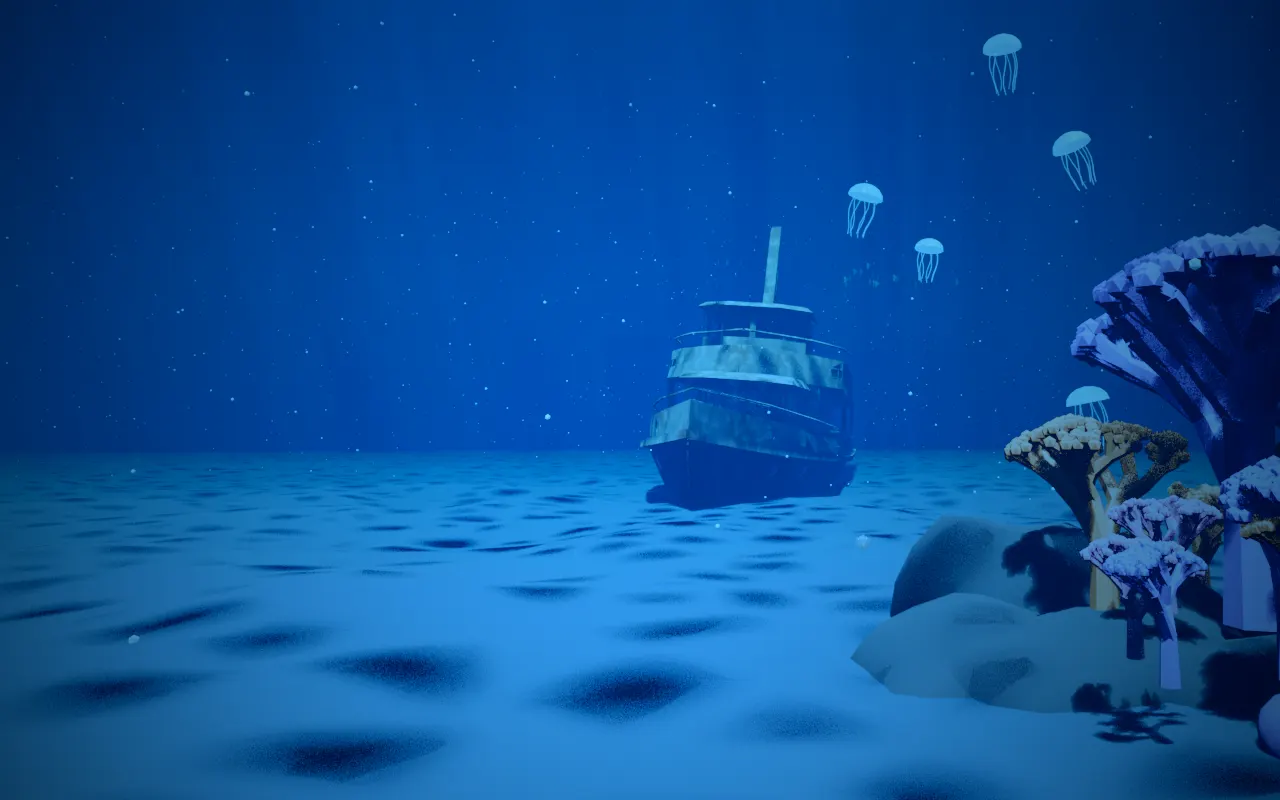
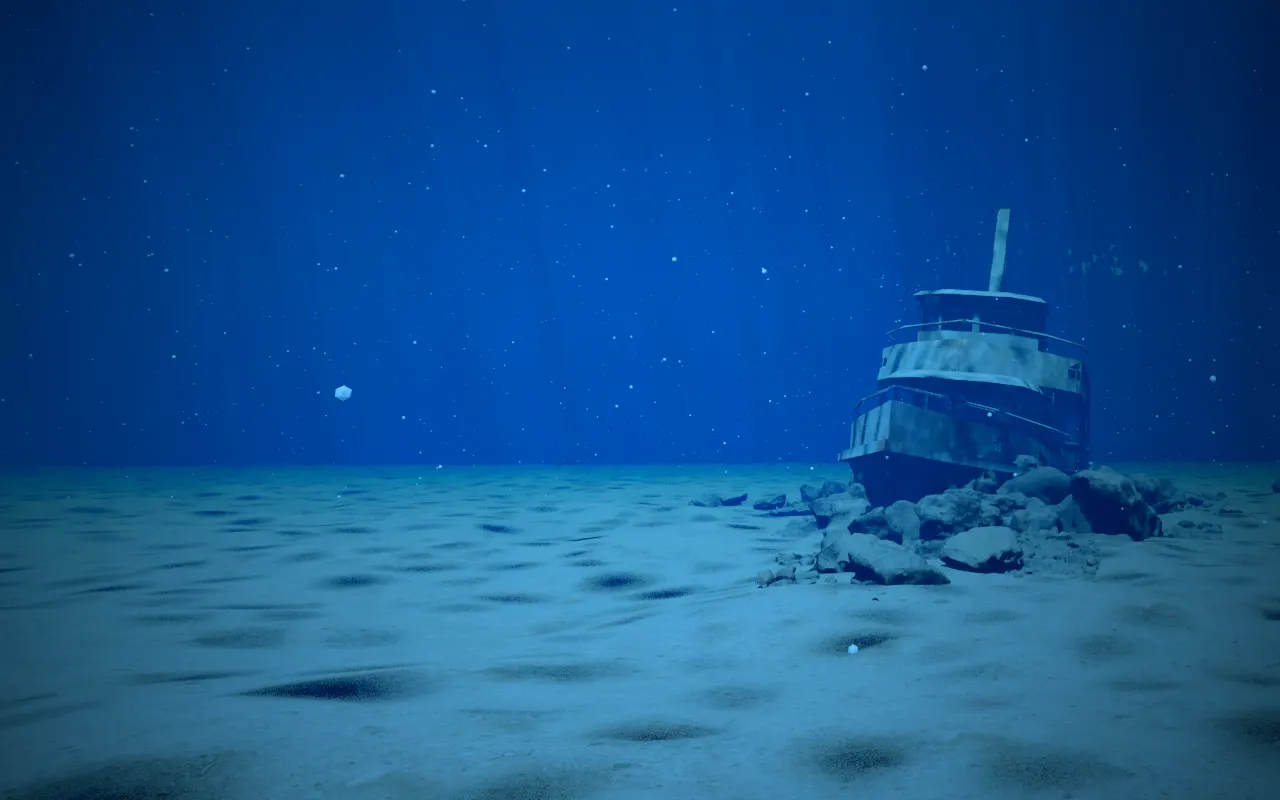
Hero: realistic wreck, scroll turns the ship, tighter crop, no webcam; full-height uncropped photo in #why

diff --git a/frontend/javascript/hero-orbit.js b/frontend/javascript/hero-orbit.js
@@ -1,6 +1,6 @@
-// Home hero: 17 renders of the wreck from an 80° arc around it. The cursor
-// (or, after "Look around", your head in the webcam) picks the angle; the two
-// nearest renders are cross-faded. Without JS the plain <img> stays.
+// Home hero: renders of the wreck from an arc around it. The cursor picks the
+// angle and scrolling through the hero turns it further; the two nearest renders
+// are cross-faded. Without JS the plain <img> stays.
 const canvas = document.querySelector(".home-hero-orbit")
 const reduce = window.matchMedia("(prefers-reduced-motion: reduce)").matches
 
@@ -13,10 +13,10 @@ function startOrbit() {
   const ctx = canvas.getContext("2d")
   const frames = Array.from({ length: n }, (_, i) => {
     const img = new Image()
-    img.src = `${canvas.dataset.path}${String(i + first).padStart(2, "0")}.webp`
+    img.src = `${canvas.dataset.path}${String(i + first).padStart(2, "0")}.webp?v=${canvas.dataset.version || 1}`
     return img
   })
-  let mouse = 0, pos = 0, head = null, t0 = performance.now()
+  let mouse = 0, pos = 0, t0 = performance.now()
 
   const resize = () => {
     const dpr = Math.min(window.devicePixelRatio || 1, 2)
@@ -33,19 +33,21 @@ function startOrbit() {
   const draw = (img, alpha) => {
     if (!img.complete || !img.naturalWidth) return false
     const cw = canvas.width, ch = canvas.height
-    const s = Math.max(cw / img.naturalWidth, ch / img.naturalHeight)
+    // zoom in a little and anchor to the top: less seabed and rocks, more water
+    const s = Math.max(cw / img.naturalWidth, ch / img.naturalHeight) * 1.15
     const w = img.naturalWidth * s, h = img.naturalHeight * s
-    const fx = cw < ch ? 0.72 : 0.5          // narrow screens: keep the wreck (right side) in view
+    const fx = cw < ch ? 0.72 : 0.6          // keep the wreck (right side) in view
     ctx.globalAlpha = alpha
-    ctx.drawImage(img, (cw - w) * fx, (ch - h) / 2, w, h)
+    ctx.drawImage(img, (cw - w) * fx, (ch - h) * 0.1, w, h)
     return true
   }
 
   const frame = (t) => {
-    // a face seen in the last half second wins; otherwise the mouse; touch screens sway
-    let target = mouse
-    if (head && t - head.seen < 500) target = head.x
-    else if (!matchMedia("(hover: hover)").matches) target = Math.sin((t - t0) / 3000) * 0.8
+    // mouse on desktop, a slow sway on touch screens; scrolling past the hero adds a turn
+    const hover = matchMedia("(hover: hover)").matches
+    const scroll = Math.min(1, window.scrollY / canvas.clientHeight)
+    let target = (hover ? mouse : Math.sin((t - t0) / 3000) * 0.3) + scroll * 1.6
+    target = Math.max(-1, Math.min(1, target))
     pos += (target - pos) * 0.08
     const f = pos < 0 ? mid + pos * mid : mid + pos * (n - 1 - mid)
     const a = Math.max(0, Math.min(n - 1, Math.floor(f))), b = Math.min(n - 1, a + 1)
@@ -56,49 +58,6 @@ function startOrbit() {
     requestAnimationFrame(frame)
   }
   requestAnimationFrame(frame)
-  return (h) => (head = h)
 }
 
-// Head tracking: opt-in, the browser asks for the camera; video never leaves the page.
-async function trackHead(setHead, button) {
-  button.disabled = true
-  button.textContent = "Starting camera…"
-  try {
-    const vision = await import("https://cdn.jsdelivr.net/npm/@mediapipe/tasks-vision@0.10.14/vision_bundle.mjs")
-    const fileset = await vision.FilesetResolver.forVisionTasks("https://cdn.jsdelivr.net/npm/@mediapipe/tasks-vision@0.10.14/wasm")
-    const detector = await vision.FaceDetector.createFromOptions(fileset, {
-      baseOptions: { modelAssetPath: "https://storage.googleapis.com/mediapipe-models/face_detector/blaze_face_short_range/float16/1/blaze_face_short_range.tflite" },
-      runningMode: "VIDEO",
-    })
-    const video = document.createElement("video")
-    video.playsInline = true
-    video.muted = true
-    video.srcObject = await navigator.mediaDevices.getUserMedia({ video: { width: 320, height: 240, facingMode: "user" } })
-    await video.play()
-    const head = { x: 0, seen: 0 }
-    setHead(head)
-    button.textContent = "Move your head"
-    const loop = () => {
-      const r = detector.detectForVideo(video, performance.now())
-      const box = r.detections[0]?.boundingBox
-      if (box) {
-        const cx = (box.originX + box.width / 2) / video.videoWidth   // 0..1, camera view
-        head.x = Math.max(-1, Math.min(1, (0.5 - cx) * 3.2))          // mirrored, amplified
-        head.seen = performance.now()
-      }
-      requestAnimationFrame(loop)
-    }
-    loop()
-  } catch {
-    button.textContent = "Camera unavailable"
-  }
-}
-
-if (canvas && !reduce) {
-  const setHead = startOrbit()
-  const button = document.querySelector(".home-hero-look")
-  if (button && navigator.mediaDevices?.getUserMedia) {
-    button.hidden = false
-    button.addEventListener("click", () => trackHead(setHead, button), { once: true })
-  }
-}
+if (canvas && !reduce) startOrbit()

diff --git a/frontend/styles/index.css b/frontend/styles/index.css
@@ -216,26 +216,19 @@ footer {
 
 .home-hero-orbit { opacity: 0; transition: opacity 600ms ease; }
 .home-hero-orbit.is-live { opacity: 1; }
-.home-hero-look {
-  display: block;
-  margin-top: 1.25rem;
-  padding: 0;
-  border: 0;
-  background: none;
-  color: rgb(226 232 240 / 0.85);
-  font-size: 0.95rem;
-  text-decoration: underline;
-  text-underline-offset: 0.25em;
-  cursor: pointer;
-}
-.home-hero-look[hidden] { display: none; }
-.home-hero-look:disabled { cursor: default; text-decoration: none; }
 .home-hero-credit a { color: inherit; }
 
+.home-why-photo { display: block; width: 100%; height: auto; }
 @media (min-width: 1024px) {
-  .home-why-inner { grid-template-columns: minmax(0, 1fr) minmax(0, 26rem); }
+  .home-why-inner > div { max-width: 52%; }
+  .home-why-photo {
+    position: absolute;
+    top: 0;
+    right: 0;
+    width: auto;
+    height: 100%;
+  }
 }
-.home-why-photo { aspect-ratio: 4 / 5; }
 
 .home-hero-place {
   position: absolute;

diff --git a/AGENTS.md b/AGENTS.md
@@ -14,7 +14,7 @@ Bridgetown static site for nofins freediving (Phuket, Thailand) — read this be
 
 **Структура по образцу theunderwatertherapist.com** (Коля, 15.10.2026: «i want the similar just drawn from my writings», «the whole site»). Главная: hero → `#head` «It is all in your head.» (четыре карточки 2×2 «проблема читателя → обещание → ссылка»: две для новичков, две для ныряющих — Коля выбрал «Mix») → `#why` → `#start` «Try freediving.» (Adults → инстаграм, Kids → `/junior/`; без номеров и без трипов — они в `#trips`) → `#trips` → `#about` → `#where` → `#join`. `/why/`: три канонические пары → эссе `.essay` с липким оглавлением справа (`.essay-toc`, от 1024px); пункт раздела, который читаешь, подсвечивается (`aria-current`, скрипт в `frontend/javascript/index.js` — раздел активен, когда его верх прошёл 30% экрана). Между текстом и оглавлением висит белый трос («line is white, marks - black») (`.dive-line`, от 1024px; Коля 15.10.2026: «фоном нарисуешь трос а внизу candy cane и стоппер и дальше он уходит до конца страницы», «отметки напротив глав»): метка на тросе напротив каждого h2 — чёрный отрезок ровно в ширину троса, не шире («depth marks are ON the line, they can't be wider») (ставит тот же скрипт; Коля 15.10.2026: «the marks should be just black squares on the line»), внизу эссе candy cane — белый трос с чёрными штрихами, как на схеме дайв-лайна, и под ним стоппер — просто жёлто-лаймовый круг `#d9f53b` («stopper just yellow-lime circle») (Коля 15.10.2026: «candycane just like dashed line»). Candy cane и стоппер висят ниже последней главы, на продолжении троса к футеру: «no marks on candycane»; трос идёт сквозь футер до самого низа страницы (`--tail` считает скрипт), поэтому футер прижат влево и не пересекается с тросом («so the rope goes all the way») и вверх от эссе до верха страницы, под текстом (`--head`; «make the rope go thru the top»). Останавливается под меню: на 1456px трос резал пункт «Why freediving». Верх троса растворяется в воде на первых 14rem (`mask-image`; «fade the top of the rope»). Левая колонка шапки и блоки Deeper/Kids — `max-w-[42rem]`, как эссе, чтобы текст не упирался в трос («join these to the left»), трос уходит ниже эссе к футеру → «Deeper means calmer.» / «One-to-one for kids.» → кнопка (Коля 15.10.2026: «make sure the page tells the story» — практические блоки после истории, вывод «On land.» ведёт к ним; раньше стояли между крючком и историей и рвали её). Эссе — одно погружение от поверхности до поверхности (Коля 15.10.2026: «свяжи всё логически, что это как бы стадии фридайвинга»): Unplug. → The urge to breathe. → The voice in your head. → Letting go. → The wall. → Free fall. → The same in life. (порядок и последний заголовок — его; «same in life, а не on land»; последняя глава — навыки воды переходят в жизнь, «начинаешь быть свободным внутри себя, внутри жизни»). Каждая глава открывается строкой-стадией из его постов: поверхность и «суфлёр ума» (2025-Q2), минута и CO₂ (2024-Q4), стены «в глубине и в задержке» (2026-Q1 «Стена»), «отпустив всё, начинаешь всплывать» (2025-Q2). Мишу из сцены у бассейна Коля снял 15.10.2026 («убери мишу») и «certain death» («не надо про death») — не возвращать. «Лучший дайв — когда не думаешь», «вымывает ненужное / что впустить обратно» и negative buoyancy живут на `/about/` — сюда не тащить. Якоря: `#twelve`, `#breath`, `#thoughts`, `#letting-go`, `#wall`, `#water`, `#life`; каждая строка — пересказ постов think→forward 2023-12-04…2026-09-08 (`Telegram/Thinkforward/`). Ревью `/impeccable` 15.10.2026: «Then I was gone.» читался как блэкаут, «Only the water.» — непонятно; раздел зовётся «Free fall.» (Коля 15.10.2026: заголовки «не понятны» — «Thoughts that are not yours.» → «The voice in your head.», «On land.» → «And on land?» (его вариант); «Fear speaks in your voice.» и «Where the fear ended.» он отклонил; «The urge to breathe.», «Letting go.», «The wall.» оставить); «seventy-five metres» без «pool» новичок читает как глубину. Карточки не цитируют эссе, а называют проблему и обещание. Кикеры «01 / RECOGNITION» с образца не взяты. Первый раздел — «Unplug.» (Коля 15.10.2026 выбрал из вариантов вместо «First contact.», его же «3 minutes to first touch or something»; заголовки «The voice in your head.» и «Free fall.» он подтвердил; строка Коли дословно: «Once I understood that you need to unplug in your head, I held my breath for over four minutes.» (было 4:15, точную цифру не ставить)); калька «My calm went down to twelve metres» / «Mine went down to twelve metres» (его «мой уровень пофигизма 12 метров») снята, Коля 15.10.2026: «прекрати писать» — не возвращать.
 
-**Hero главной — облёт затонувшего корабля** (29.10.2026). Слова Коли по ходу: «вид со дна», «голый металл без отделки», «не надо ломать корпус», «убери всю мелочь с бортов, типа перил», «глубже в землю» (закопан на треть борта), «всё синей и насыщенней», «посмотри как у них» (образец @rut4a в Threads: рифы по краям, медузы, корабль вдали), «левый край слишком сильно поворачивает». Сцена — `Projects/blender/media/meditation-wreck.blend` (MV Meditation с Рача Яй на модели Yacht II, CC BY — подпись `.home-hero-credit` не снимать). 23 рендера по дуге −15°…+40° через 2,5° (`scene["orbit"]["angles"]`), нос к зрителю — кадр `f06`; цветокоррекция в синеву ставится при экспорте: `Projects/blender/scripts/export-orbit.sh` → `src/images/home/orbit/f00–f22.webp` (~1 МБ). `frontend/javascript/hero-orbit.js`: курсор по X выбирает угол (`data-center` — кадр в центре экрана, слева от него меньше кадров, чем справа), соседние кадры смешиваются; тач-экраны качаются сами; кнопка «Look around with your head» включает веб-камеру (MediaPipe FaceDetector с jsDelivr, видео не уходит со страницы), пока лица нет в кадре — управляет мышь. Без JS — `hero-wreck.webp` (= `f06`). Первая версия с картой глубины снята: поворот на пару градусов («шевелится только чутьчуть»). Подпись «Koh Racha Yai, / Phuket, Thailand» — правый нижний угол, `.home-hero-place` в CSS. Меню главной без тёмной подложки («убери тень из под меню»). Под hero в `#why` справа фото Коли на тросе (`why-line.webp`, кадр из рилса «Weekend @ 35m»). Дев-сервер после правок CSS иногда отдаёт старое имя бандла (404 на `index.*.css`) — перезапустить `yarn start`.
+**Hero главной — облёт затонувшего корабля** (29.10.2026). Слова Коли по ходу: «вид со дна», «голый металл без отделки», «не надо ломать корпус», «убери всю мелочь с бортов, типа перил», «глубже в землю» (закопан на треть борта), «всё синей и насыщенней», «посмотри как у них» (образец @rut4a в Threads: рифы по краям, медузы, корабль вдали), «левый край слишком сильно поворачивает». Сцена — `Projects/blender/media/meditation-wreck.blend` (MV Meditation с Рача Яй на модели Yacht II, CC BY — подпись `.home-hero-credit` не снимать). 23 рендера по дуге −15°…+40° через 2,5° (`scene["orbit"]["angles"]`), нос к зрителю — кадр `f06`; цветокоррекция в синеву ставится при экспорте: `Projects/blender/scripts/export-orbit.sh` → `src/images/home/orbit/f00–f22.webp` (~1 МБ). `frontend/javascript/hero-orbit.js`: курсор по X выбирает угол (`data-center` — кадр в центре экрана, слева от него меньше кадров, чем справа), прокрутка через hero доворачивает дальше вправо, соседние кадры смешиваются; тач-экраны качаются сами. Веб-камеру (MediaPipe) сняли 29.10.2026: у Коли не заработала («camera doesn't work, make it so the movement of the mouse and the scrolling rotates the boat»). Кадр увеличен ×1.15 и прижат к верху, чтобы дна и камней было меньше («поменьше дна… на камни смотреть не очень»); у fallback-картинки тот же кроп inline-стилем. Новые webp с тем же именем — поднимать `?v=` (`data-version`, `?v=` у `<img>`): браузер держит старый файл. Без JS — `hero-wreck.webp` (= `f06`). Первая версия с картой глубины снята: поворот на пару градусов («шевелится только чутьчуть»). Подпись «Koh Racha Yai, / Phuket, Thailand» — правый нижний угол, `.home-hero-place` в CSS. Меню главной без тёмной подложки («убери тень из под меню»). Под hero в `#why` справа фото Коли на тросе (`why-line.webp`, кадр из рилса «Weekend @ 35m», 720×1280): от 1024px — во всю высоту секции, без кропа и скруглений («не надо обрезать»), ширина по пропорции. Дев-сервер после правок CSS иногда отдаёт старое имя бандла (404 на `index.*.css`) — перезапустить `yarn start`.
 
 **Главная не дублирует внутренние страницы** (2026-08-03). Она коротко представляет направление и ведёт дальше; `/why/` владеет кратким объяснением практики для взрослых и детей. `/senior/` остаётся совместимым редиректом на `/why/`.
 

diff --git a/src/index.md b/src/index.md
@@ -5,10 +5,10 @@ title: nofins | Freediving trains life
 
 <section class="home-hero relative isolate flex min-h-[100dvh] items-center overflow-hidden text-white">
   <picture class="absolute inset-0 block h-full w-full">
-    <source media="(max-width: 767px)" srcset="/images/home/hero-wreck-mobile.webp">
-    <img src="/images/home/hero-wreck.webp" alt="A broken yacht wreck on the sand under blue water, light falling from the surface" width="1280" height="800" loading="eager" fetchpriority="high" class="h-full w-full object-cover object-center">
+    <source media="(max-width: 767px)" srcset="/images/home/hero-wreck-mobile.webp?v=3">
+    <img src="/images/home/hero-wreck.webp?v=3" alt="A broken yacht wreck on the sand under blue water, light falling from the surface" width="1280" height="800" loading="eager" fetchpriority="high" class="h-full w-full object-cover" style="object-position:60% 10%;transform:scale(1.15);transform-origin:60% 10%">
   </picture>
-  <canvas class="home-hero-orbit absolute inset-0 h-full w-full" data-path="/images/home/orbit/f" data-frames="23" data-center="6" aria-hidden="true"></canvas>
+  <canvas class="home-hero-orbit absolute inset-0 h-full w-full" data-path="/images/home/orbit/f" data-frames="23" data-center="6" data-version="3" aria-hidden="true"></canvas>
   <div class="home-hero-shade absolute inset-0"></div>
   <p class="home-hero-place">Koh Racha Yai,<br>Phuket, Thailand</p>
   <p class="home-hero-credit absolute bottom-2 right-3 z-1 m-0 text-[0.65rem] text-slate-400/70">Wreck: <a href="https://sketchfab.com/3d-models/yacht-ii-dadc775d1d044aee9f6744fa7b47648e" target="_blank" rel="noopener">Yacht II</a> by <a href="https://sketchfab.com/agt14032013" target="_blank" rel="noopener">gogiart</a>, <a href="https://creativecommons.org/licenses/by/4.0/" target="_blank" rel="noopener">CC BY 4.0</a></p>
@@ -18,7 +18,6 @@ title: nofins | Freediving trains life
       <h1 class="home-title mb-6 mt-0 max-w-[13ch] text-[2.8rem] font-black leading-[0.96] sm:text-6xl lg:text-8xl">Freediving trains life.</h1>
       <p class="mb-8 max-w-2xl text-lg leading-relaxed text-slate-100 sm:text-xl">Slow down. Stay calm. Go deeper.</p>
       <a href="https://instagram.com/nofinsfreediving" target="_blank" rel="noopener" class="btn home-cta">Let&rsquo;s freedive</a>
-      <button type="button" class="home-hero-look" hidden>Look around with your head</button>
     </div>
   </div>
 </section>
@@ -52,8 +51,8 @@ title: nofins | Freediving trains life
   </div>
 </section>
 
-<section id="why" class="home-why bg-[#041a2e] text-slate-100">
-  <div class="home-why-inner mx-auto grid max-w-7xl items-center gap-12 px-6 sm:px-10 lg:grid-cols-[minmax(0,1fr)_minmax(0,26rem)] lg:px-12">
+<section id="why" class="home-why relative bg-[#041a2e] text-slate-100">
+  <div class="home-why-inner mx-auto max-w-7xl px-6 sm:px-10 lg:px-12">
     <div>
     <h2 class="mb-6 mt-0 max-w-2xl text-balance text-4xl font-black tracking-tight sm:text-5xl">Freediving is life.</h2>
     <p class="home-lead mb-8 mt-0 max-w-2xl">Drop the act and be yourself.</p>
@@ -61,8 +60,8 @@ title: nofins | Freediving trains life
     <p class="home-lead mb-8 mt-0 max-w-2xl">It works the same for adults and kids.</p>
     <a href="/why/" class="link-arrow text-sky-300 hover:text-sky-200">Why freediving<svg viewBox="0 0 24 24" fill="none" stroke="currentColor" stroke-width="2.5" stroke-linecap="round" stroke-linejoin="round" class="h-[0.9em] w-[0.9em]" aria-hidden="true"><path d="M5 12h13M13 6l6 6-6 6"/></svg></a>
     </div>
-    <img src="/images/home/why-line.webp" alt="Nick Ostrovsky on the line underwater, one arm up, looking towards the surface" width="800" height="1000" loading="lazy" class="home-why-photo w-full rounded-3xl object-cover">
   </div>
+  <img src="/images/home/why-line.webp?v=3" alt="Nick Ostrovsky on the line underwater, one arm up, looking towards the surface" width="720" height="1280" loading="lazy" class="home-why-photo">
 </section>
 
 <section id="start" class="bg-slate-900 text-slate-100">
